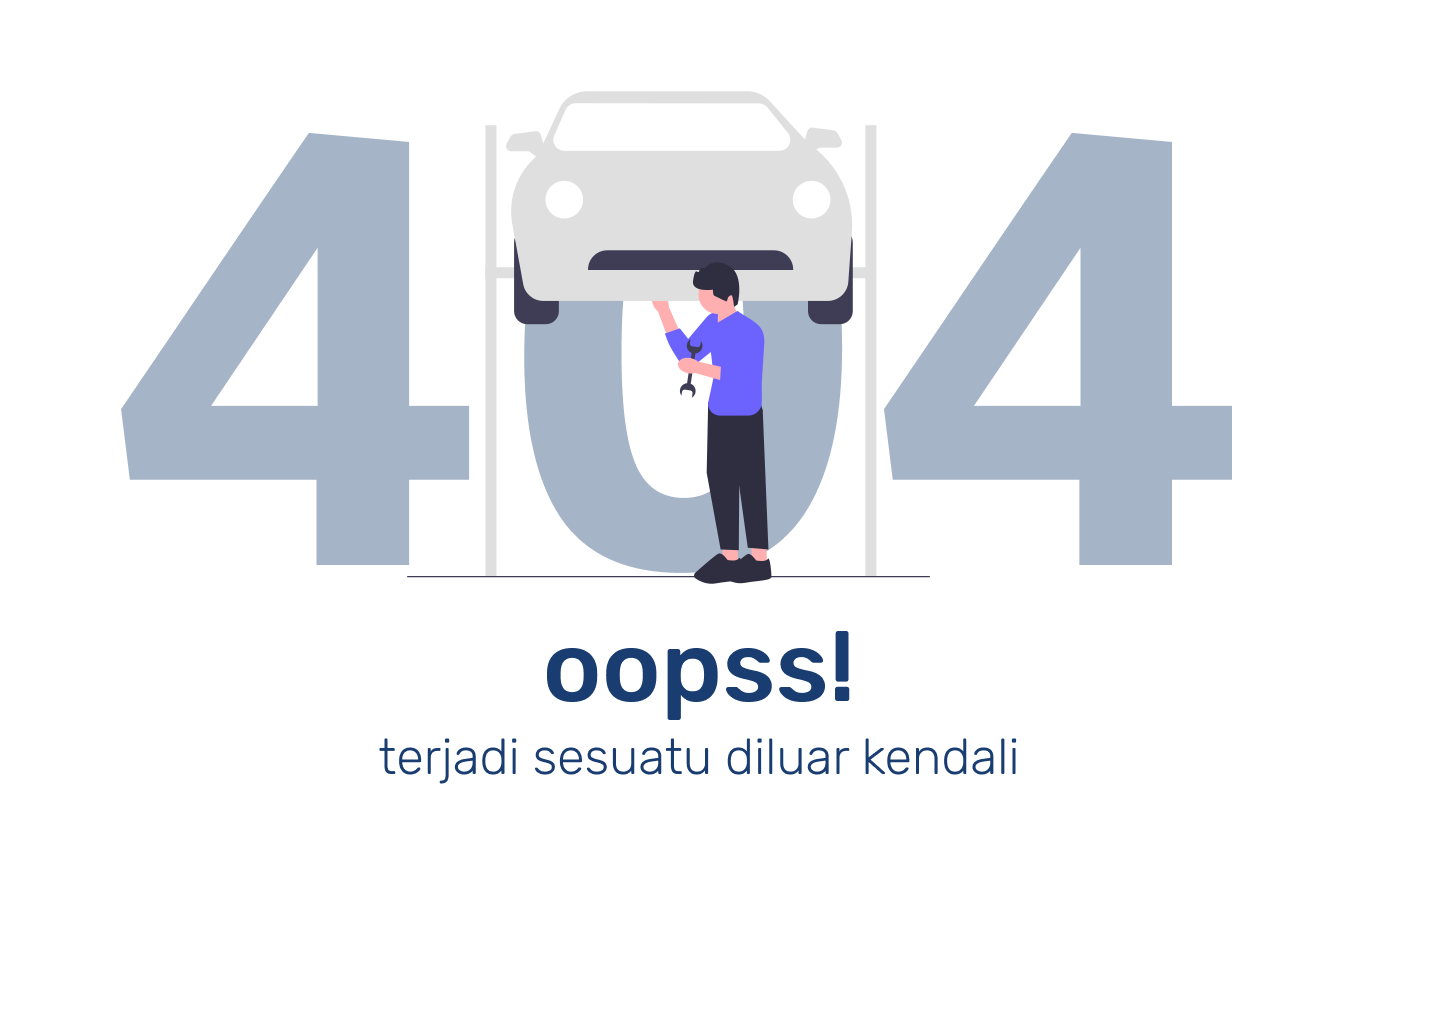
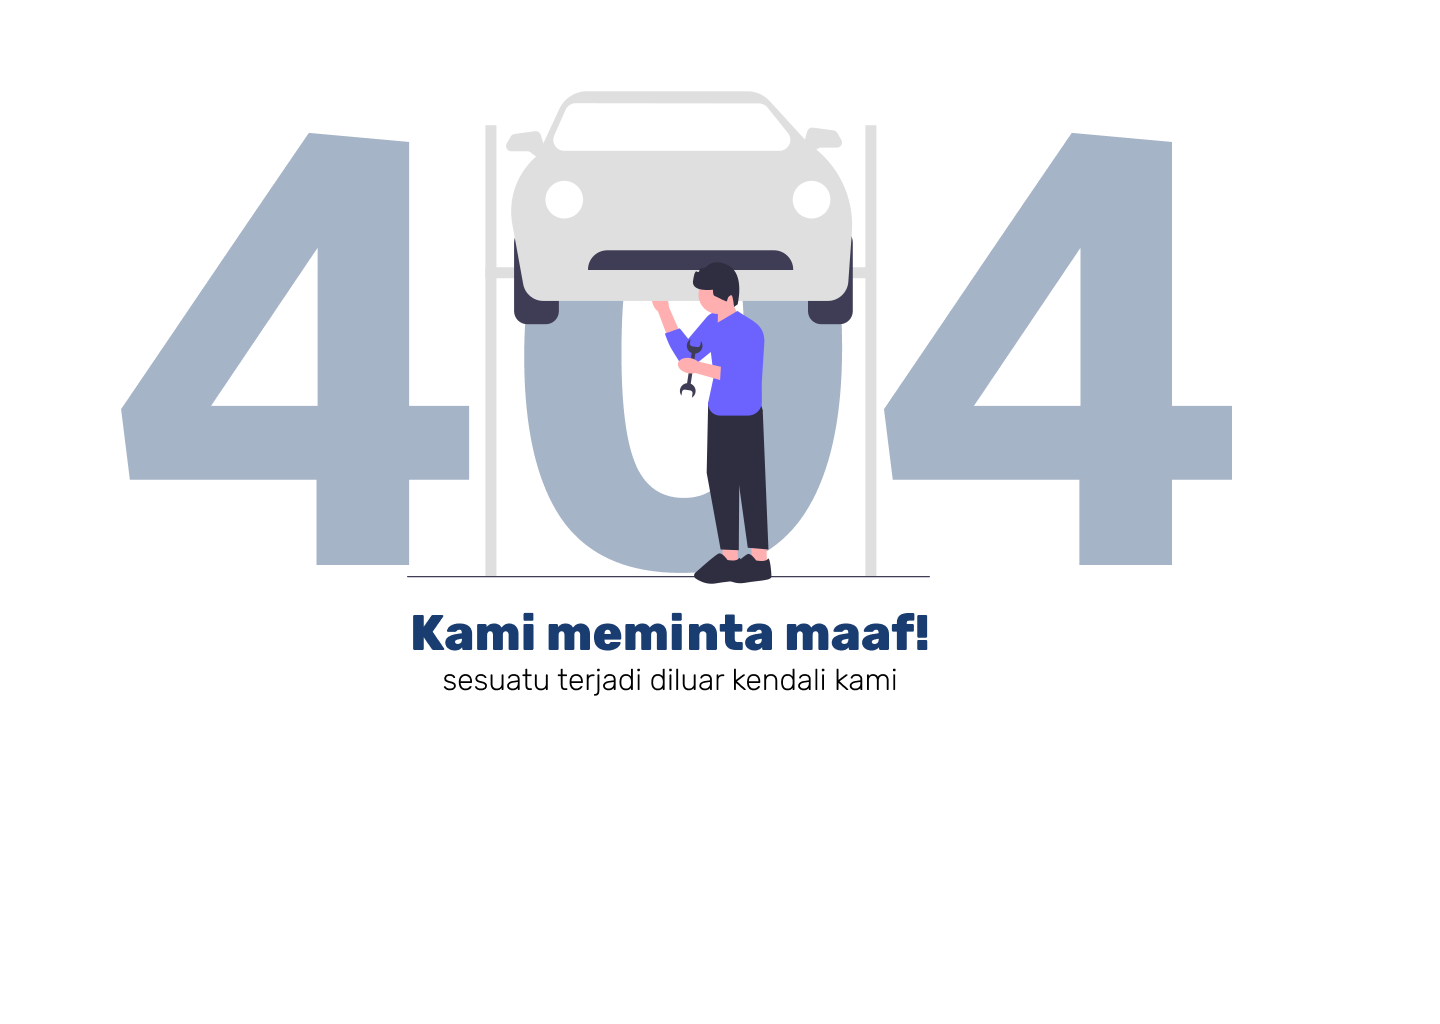
fix error 404 photo

Changed region(s): [[0.2812, 0.5938, 0.6562, 0.6875], [0.25, 0.7188, 0.7188, 0.7812]]

diff --git a/BuydozerAdmin/src/Pages/customer/ErrorPage/ErrorPage.jsx b/BuydozerAdmin/src/Pages/customer/ErrorPage/ErrorPage.jsx
@@ -9,8 +9,6 @@ import error404 from '@assets/error404.png'
 const ErrorPage = () => {
   const navigate = useNavigate()
   const role = localStorage.getItem("UserRole")
-  console.log({role});
-
   const handleNavigate = () => {
     {role === "1999" 
       ? navigate("/admin/dashboard") 
@@ -20,9 +18,9 @@ const ErrorPage = () => {
 
 
   return (
-    <Box sx={{...flexCenter, flexDirection: "column", width:"100%", height:"100%", }}>
-      <img src={error404} style={{width:"80%", height:"100%"}} />
-      <Box sx={{...flexCenter, width:"15%", mr:"30px",mt:-18}}>
+    <Box sx={{...flexCenter, flexDirection: "column", width:"100%", height:"100%" }}>
+      <img src={error404} style={{display:"flex",position:"absolute",width:"75%", height:"100%", top:50}} />
+      <Box sx={{...flexCenter, width:"100%", padding:"0 45% 0 40%" ,bottom:110, position:"absolute" }}>
       <ButtonContained
         onClick={handleNavigate}
         text={

diff --git a/BuydozerAdmin/src/Layouts/admin/Header/Header.jsx b/BuydozerAdmin/src/Layouts/admin/Header/Header.jsx
@@ -20,8 +20,7 @@ const Header = () => {
   }
 
   const headerIcon = [
-    { icon: <SupportAgentRounded fontSize='small' sx={{fontSize: "16px" ,color: theme.palette.primary.dark }} />, tooltip: "Switch to Customer", onclick: handleSwitch },
-    { icon: <Notifications fontSize='small' sx={{ fontSize: "16px", color: theme.palette.primary.dark }} />, tooltip: "Notifications" },
+    { icon: <SupportAgentRounded fontSize='small' sx={{fontSize: "16px" ,color: theme.palette.primary.dark }} />, tooltip: "Customer Page", onclick: handleSwitch },
     { icon: <ExitToApp fontSize='small' sx={{ fontSize: "16px", color: theme.palette.primary.dark }} />, tooltip: "Logout", onclick: handleLogout },
   ]
 

diff --git a/BuydozerAdmin/src/Pages/customer/LoginPage/LoginPage.jsx b/BuydozerAdmin/src/Pages/customer/LoginPage/LoginPage.jsx
@@ -204,7 +204,7 @@ const LoginPage = () => {
               <Button type='button' onClick={formik.handleSubmit}
                 sx={styleButton}>
                 {loginIsPending
-                  ? <CircularProgress size={25} sx={{color: "#D9D630",}} />
+                  ? <CircularProgress size={26} sx={{color: "#D9D630",}} />
                   :
                   "Login"
                 }
